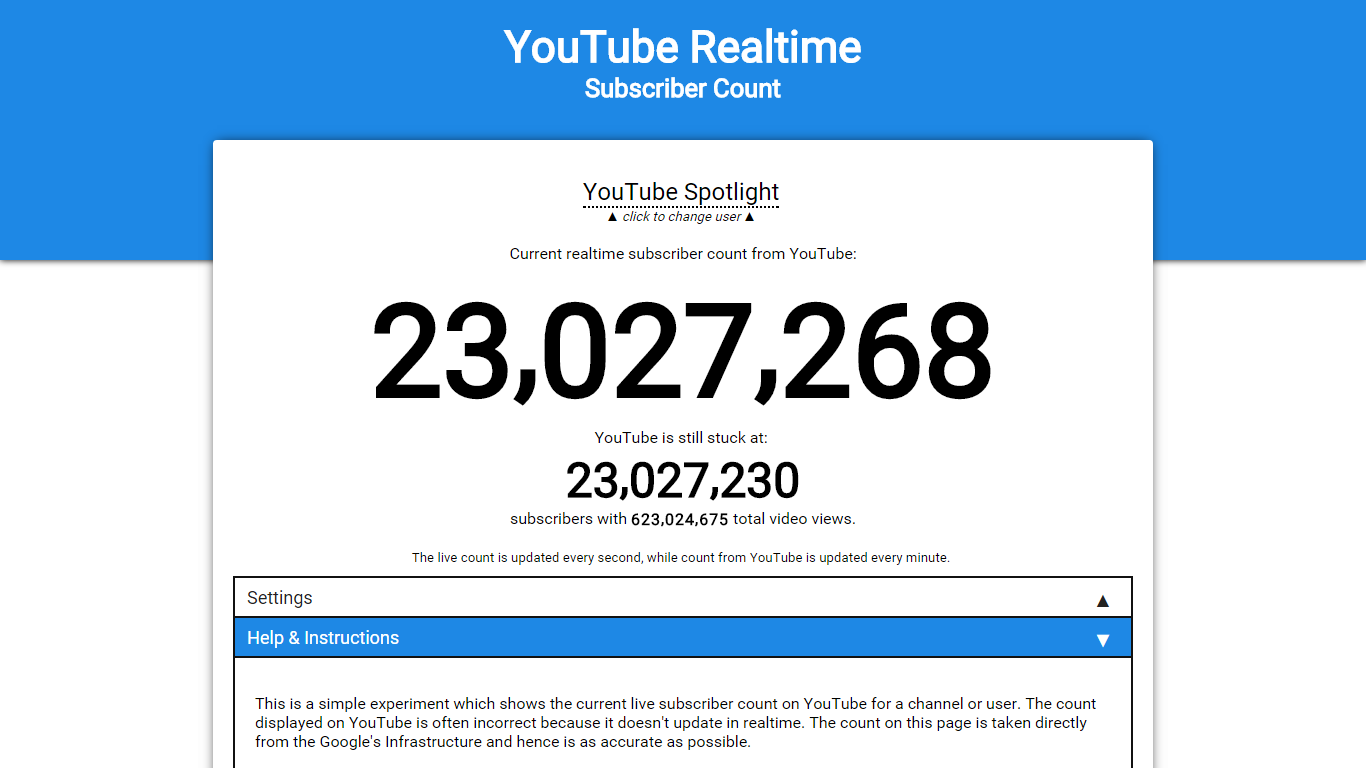
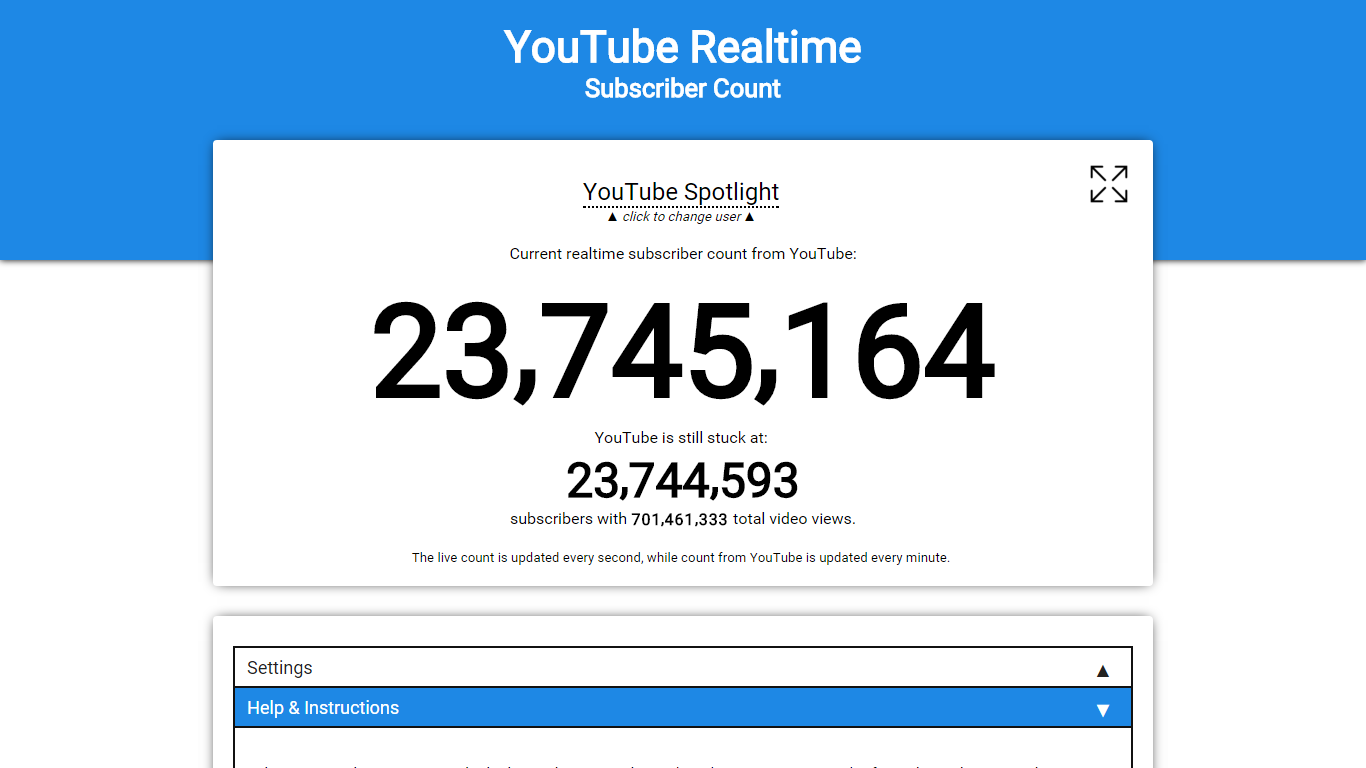
Immersive Mode (beta)

diff --git a/script.js b/script.js
@@ -1,12 +1,15 @@
 var baseURL = "https://akshatmittal.com/youtube-realtime/";
-if(window.top !== window.self) window.top.location.replace(window.self.location.href);
-if(location.hostname.indexOf("akshatmittal.com") == -1 && location.hostname != "localhost") location.replace(baseURL + location.hash);
-if(location.protocol != "https:" && location.hostname != "localhost") location.protocol = "https:";
+if(window.location.hostname != "localhost") {
+	if (window.location.protocol != "https:") window.location.replace("https:" + window.location.href.substring(window.location.protocol.length));
+	if(location.hostname.indexOf("akshatmittal.com") == -1) window.location.replace(baseURL + location.hash);
+	if(window.top !== window.self) window.top.location.replace(window.self.location.href);
+}
 
 var coolGuys = ['PewDiePie','Smosh','MarquesBrownlee','YouTube','TaylorSwiftVEVO','EminemVEVO','BuzzFeedVideo','Smosh', 'Machinima', 'SkyDoesMinecraft'];
 var username = coolGuys[Math.floor(Math.random()*coolGuys.length)];
 var rawInput = username;
 var keyIndex = 0;
+var darkTheme, immersive, milestone;
 
 var getText = function(url, callback) {
 	var request = new XMLHttpRequest();
@@ -18,22 +21,6 @@ var getText = function(url, callback) {
 	request.open('GET', url);
 	request.send();
 }
-var toggleDark = function() {
-	var html = document.body.parentElement;
-	if(html.className == "dark") {
-		html.className = "";
-	} else {
-		html.className = "dark";
-	}
-}
-var toggleMilestones = function() {
-	var el = document.getElementById('milestoneBox');
-	if(el.style.maxHeight == "5em") {
-		el.style.maxHeight = "0";
-	} else {
-		el.style.maxHeight = "5em";
-	}
-}
 var changeText = function(elem, changeVal) {
     if ('textContent' in elem) {
         elem.textContent = changeVal;
@@ -41,6 +28,77 @@ var changeText = function(elem, changeVal) {
         elem.innerText = changeVal;
     }
 }
+var hasClass = function(elem, className) {
+    return new RegExp(' ' + className + ' ').test(' ' + elem.className + ' ');
+}
+var addClass = function(elem, className) {
+    if (!hasClass(elem, className)) {
+        elem.className += ' ' + className;
+    }
+}
+var removeClass = function(elem, className) {
+    var newClass = ' ' + elem.className.replace(/[\t\r\n]/g, ' ') + ' ';
+    if (hasClass(elem, className)) {
+        while (newClass.indexOf(' ' + className + ' ') >= 0) {
+            newClass = newClass.replace(' ' + className + ' ', ' ');
+        }
+        elem.className = newClass.replace(/^\s+|\s+$/g, '');
+    }
+}
+
+var toggleDark = function() {
+	var html = document.body.parentElement;
+	if(hasClass(html, 'dark')) {
+		removeClass(html, 'dark');
+		darkTheme.checked = false;
+	} else {
+		addClass(html, 'dark');
+		darkTheme.checked = true;
+	}
+	localStorage.setItem("darkTheme", darkTheme.checked);
+	updateImmersiveExpand();
+}
+var toggleMilestones = function() {
+	var el = document.getElementById('milestoneBox');
+	if(el.style.maxHeight == "5em") {
+		el.style.maxHeight = "0";
+		milestone.checked = false;
+	} else {
+		el.style.maxHeight = "5em";
+		milestone.checked = true;
+	}
+	localStorage.setItem("milestone", milestone.checked);
+}
+var toggleImmersive = function() {
+	var html = document.body.parentElement;
+	if(hasClass(html, 'immersive')) {
+		removeClass(html, 'immersive');
+		immersive.checked = false;
+	} else {
+		addClass(html, 'immersive');
+		immersive.checked = true;
+	}
+	localStorage.setItem("immersive", immersive.checked);
+	updateImmersiveExpand();
+}
+var readStorage = function() {
+	if(localStorage.getItem("darkTheme") == 'true') toggleDark();
+	if(localStorage.getItem("milestone") == 'true') toggleMilestones();
+	if(localStorage.getItem("immersive") == 'true') toggleImmersive();
+}
+var updateImmersiveExpand = function() {
+	var el = document.getElementById('immersive-img');
+	var m = "expand";
+	var n = "light";
+	if(immersive.checked) {
+		m = "collapse";
+	}
+	if(darkTheme.checked) {
+		n = "dark";
+	}
+	el.src = "res/" + m + "-" + n + ".png";
+}
+
 var orientationCheck = function() {
 	if(window.innerWidth < window.innerHeight) { // Device is in Potrait mode
 		document.getElementById('deviceOrientation').style.visibility = "visible";
@@ -185,7 +243,7 @@ update.share = function(a) {
 	}
 }
 update.getKey = function() {
-	var APIkeys = ["AIzaSyC0QYUSKEwHaRVz4NKpT1SLbkVMT1o5cM8", "AIzaSyBSyBp1KHjjXox6e9FBPoOCE1mbLvVUzUM"];
+	var APIkeys = ["AIzaSyC0QYUSKEwHaRVz4NKpT1SLbkVMT1o5cM8", "AIzaSyBSyBp1KHjjXox6e9FBPoOCE1mbLvVUzUM", "AIzaSyDeLLOyrp1yCZCOmVXg3u8Jxtasre2NxFA"];
 	keyIndex = (keyIndex + 1)%(APIkeys.length);
 	return APIkeys[keyIndex];
 }
@@ -237,6 +295,12 @@ window.onload = function() {
 	update.all();
 	setInterval(update.live, 1*1000);
 	setInterval(update.yt, 60*1000);
+
+	darkTheme = document.getElementById('darkTheme');
+	milestone = document.getElementById('milestone');
+	immersive = document.getElementById('immersive');
+	readStorage();
+
 	document.querySelector("#username").onclick = newUsername;
 	window.onresize = orientationCheck;
 	orientationCheck();

diff --git a/index.html b/index.html
@@ -3,7 +3,7 @@
 	<title>Realtime YouTube Subscriber Count by Akshat Mittal</title>
 	<meta http-equiv="Content-Type" content="text/html;charset=utf-8" />
 	<meta name="fragment" content="!">
-	<!-- <meta name="viewport" content="width=800px, initial-scale=1x, user-scalable=yes" /> -->
+	<!-- <meta name="viewport" content="minimal-ui, width=800px, initial-scale=1x, user-scalable=yes" /> -->
 	<link rel="shortcut icon" type="image/png" href="icon.png" />
 	<link href='//fonts.googleapis.com/css?family=Roboto:400' rel='stylesheet' type='text/css' />
 	<link rel="stylesheet" type="text/css" href="style.css" />
@@ -34,6 +34,9 @@
 		<h2>Subscriber Count</h2>
 	</div>
 	<div id="main" class="top">
+		<div class="im-img" onclick="toggleImmersive()">
+			<img src="res/expand-light.png" alt="Immpersive Mode" id="immersive-img" />
+		</div>
 		<div class="notice" id="deviceOrientation">You are recommended to switch your device to landscape orientation.<br></div>
 		<span id="username">Loading..</span>
 		<br>
@@ -51,12 +54,26 @@
 		<br>
 		<small>The live count is updated every second, while count from YouTube is updated every minute.</small>
 		<br>
+	</div>
+	<div class="" id="main">
+		<script async src="//pagead2.googlesyndication.com/pagead/js/adsbygoogle.js"></script>
+		<!-- YouTube Realtime -->
+		<ins class="adsbygoogle"
+		     style="display:block"
+		     data-ad-client="ca-pub-3188055178160882"
+		     data-ad-slot="4767099859"
+		     data-ad-format="auto"></ins>
+		<script>
+		(adsbygoogle = window.adsbygoogle || []).push({});
+		</script>
+		<!-- This ad above funds the project for use and development. -->
 		<section class="ac-container">
 			<div>
 				<input id="ac-1" name="accordion-1" type="radio" class="accordion"/>
 				<label for="ac-1">Settings</label>
 				<article class="ac-settings">
 					<div class="inner">
+						These settings are saved in your browser and are retained even if you navigate away from this page and come back later.<br><br>
 						<div class="dark-theme setting">
 							<span>Dark Theme:</span>
 							<div class="onoffswitch">
@@ -77,6 +94,18 @@
 							<br><br>
 							<p>
 								Milestones automatically calculate the next milestone and tells you the required number of subscribers to hit that.
+							</p>
+						</div>
+						<div class="immersive setting">
+							<span>Immersive Mode:</span>
+							<div class="onoffswitch">
+								<input type="checkbox" name="immersive" class="onoffswitch-checkbox" id="immersive" onchange="toggleImmersive()" />
+								<label class="onoffswitch-label" for="immersive">On</label>
+							</div>
+							<span class='isbeta'>beta</span>
+							<br><br>
+							<p>
+								Immersive Mode lets you concentrate right on the counter when you are all set with everything else! Dark Theme recommended in dark environments.
 							</p>
 						</div>
 					</div>
@@ -129,10 +158,6 @@
 						<p>
 							I've been seeing a lot of copies of this project on the internet, please consider adding an attribution if you are planning to deploy this project on your website. If you are a YouTuber, consider using a direct link for your channel instead of creating a new clone, that'll save you from a lot of hassle. Thanks!
 						</p>
-						<!--
-							You can use the following HTML code for attribution:
-							<span>&copy; <a href="http://akshatmittal.com" target="_blank">Akshat Mittal</a>. This is an <a href="https://github.com/akshatmittal/youtube-realtime" target="_blank">open-source project</a> originally appearing on <a href="https://akshatmittal.com/youtube-realtime/">GitHub</a>.</span>
-						 -->
 					</div>
 				</article>
 			</div>
@@ -141,7 +166,7 @@
 	<div id="main">
 		<div class="fb-like" data-href="https://akshatmittal.com/youtube-realtime/" data-layout="button" data-action="like" data-show-faces="false" data-share="true"></div> <div class="fb-follow" data-href="https://www.facebook.com/itsreallyakshat" data-colorscheme="light" data-layout="button" data-show-faces="false"></div> <div class="g-plusone" data-size="medium" data-annotation="none"></div> <a href="https://twitter.com/itsreallyakshat" class="twitter-follow-button" data-show-count="false" data-size="medium">Follow @itsreallyakshat</a> <a class="twitter-share-button" href="https://twitter.com/intent/tweet?text=YouTube%20Realtime%20Subscriber%20Count%20by%20%40itsreallyakshat!" data-count="none" data-size="medium">Tweet</a>
 		<br><br>
-		<small>&copy; <a href="https://akshatmittal.com/" target="_blank">Akshat Mittal</a>. This is an <a href="https://github.com/akshatmittal/youtube-realtime" target="_blank">open-source project</a> under the GPL v3 License.</small>
+		<small>&copy; <a href="https://akshatmittal.com/" target="_blank">Akshat Mittal</a>. Reproduction without permission is strictly forbidden.</small>
 	</div>
 </body>
 </html>

diff --git a/style.css b/style.css
@@ -1,10 +1,3 @@
-html {
-	-webkit-transition: all 0.5s ease;
-		 -moz-transition: all 0.5s ease;
-		  -ms-transition: all 0.5s ease;
-		 	 -o-transition: all 0.5s ease;
-				  transition: all 0.5s ease;
-}
 body,h1,h2 {
 	padding: 0;
 	margin: 0;
@@ -38,6 +31,7 @@ button:focus, input:focus {
 }
 #main.top {
 	margin-top: -120px;
+	transition: all 0.25s ease;
 }
 h1 {
 	padding-top: 20px;
@@ -94,11 +88,14 @@ html.dark #cover {
 	background-color: #0F4677;
 }
 html.dark #main {
-	background-color: #000;
+	background-color: #111;
 }
 html.dark .ac-container input:checked + label:not(.onoffswitch-label),
 html.dark .ac-container input:checked + label:not(.onoffswitch-label):hover{
 	background: #0F4677;
+}
+html.dark .ac-container article div.inner, html.dark .ac-container {
+	border-color: #333;
 }
 html.dark .ac-container label:not(.onoffswitch-label) {
 	color: #EEE;
@@ -110,10 +107,46 @@ html.dark input#shareURL {
 }
 
 /*
+** Immersive Mode
+*/
+html.immersive body{
+	overflow: hidden;
+}
+html.immersive div#main {
+  max-width: 100%;
+}
+html.immersive.dark div#main {
+	background-color: #222;
+}
+html.immersive div#main.top{
+	width: 100%;
+	height: 100%;
+	position: fixed;
+	top: 0;
+	z-index: 1000;
+	padding: 20px;
+	margin: 0px -40px;
+	border-radius: 0px;
+}
+html.immersive .count_live {
+  font-size: 13em;
+}
+.im-img {
+	position: relative;
+}
+.im-img img {
+	width: 48px;
+	cursor: pointer;
+	position: absolute;
+	top: 0;
+	right: 0;
+}
+
+/*
 ** Accordion - Thanks to Codrops
 */
 .ac-container {
-	margin: 10px auto 30px auto;
+	margin: 10px auto;
 	text-align: left;
 	border: 1px solid #111;
 }
@@ -174,7 +207,7 @@ html.dark input#shareURL {
 	border: 1px solid #111;
 }
 .ac-container input:checked ~ article.ac-settings{
-	height: 240px;
+	height: 380px;
 }
 .ac-container input:checked ~ article.ac-help{
 	height: 380px;
@@ -244,7 +277,6 @@ html.dark input#shareURL {
     right: 0px;
 }
 
-
 .setting span {
 	line-height: 40px;
 	font-size: 22px;
@@ -253,6 +285,14 @@ html.dark input#shareURL {
 }
 .setting > div {
 	float: left;
+}
+.isbeta {
+	margin: 5px;
+	background: #ECECEC;
+	padding: 7px;
+	line-height: 18px !important;
+	border-radius: 10px;
+	font-size: 12px !important;
 }
 
 /*

diff --git a/README.md b/README.md
@@ -13,14 +13,20 @@ Feel free to submit issues/pull request if you'd like to contribute. No javascri
 I've been seeing a lot of copies of this project on the internet, please consider adding an attribution link if you are planning to deploy this project on your website. If you are a YouTuber, consider using a direct link for your channel instead of creating a new clone website. Thanks!
 
 # Screenshots
-![YouTube Realtime Screenshot](res/Example2.png)
-*YouTube Realtime showing a self discovery channel*
+![YouTube Realtime Screenshot](res/Example1.png)
+*YouTube Realtime showing YouTube Spotlight*
 
 ![YouTube Realtime Screenshot](res/ExampleDark.png)
 *YouTube Realtime with Dark Theme enabled*
 
 ![YouTube Realtime Screenshot](res/ExampleMilestone.png)
 *YouTube Realtime with Milestones enabled*
+
+![YouTube Realtime Screenshot](res/ExampleImmersive.png)
+*YouTube Realtime with Immersive Mode enabled*
+
+![YouTube Realtime Screenshot](res/ExampleImmersiveDark.png)
+*YouTube Realtime with Immersive Mode and Dark Theme enabled*
 
 # Features
 
@@ -32,7 +38,8 @@ I've been seeing a lot of copies of this project on the internet, please conside
 * Easy Sharing built in
 * Dark Theme
 * Milestones
-* Simple custom URls
+* Immersive Mode (beta)
+* Simple custom URLs
 
 # Try it yourself!
 
